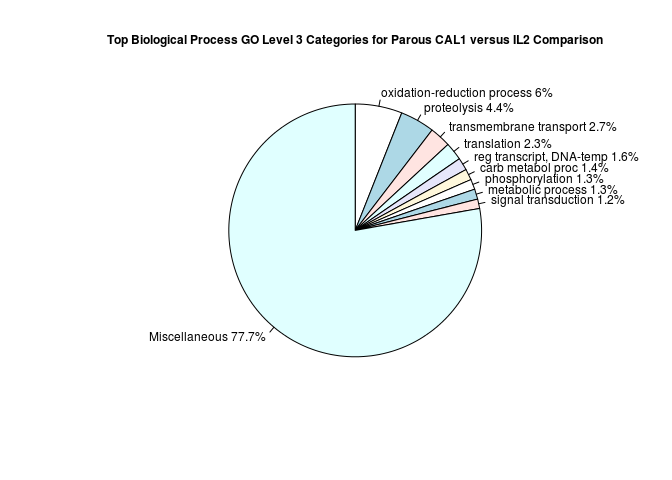
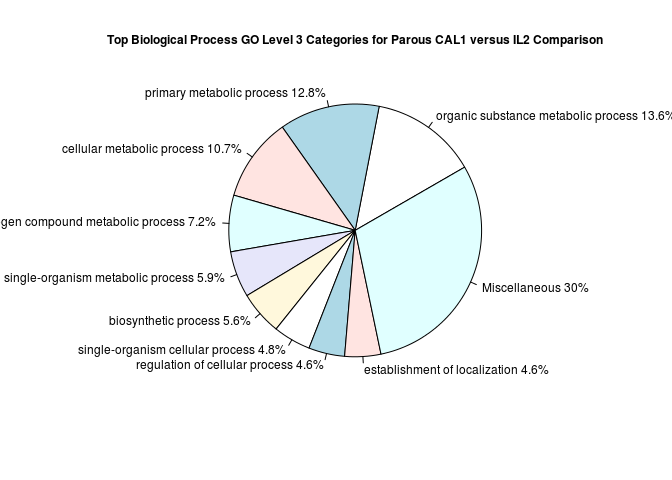
changed input datasets to actually reflect level3 GO categories, rather than direct GO counts

diff --git a/Culex_GO_Figs_09072018.md b/Culex_GO_Figs_09072018.md
@@ -9,76 +9,83 @@ Plots for Gene Ontology Classification.
 ##### Loading in data sets and libraries.
 
 ``` r
-library(rlist)
-
 setwd("~/Desktop/CulexRNAseq")
 
 #Getting the top 9 MF categories
-DGC_MF_grVpa <- read.table("./data/Culex_DGE_Blast2GO_output/GO_data_analyses/gravid_v_parous/DGC_MF_grVpa.txt", nrows = 9, sep = "\t", header = T)
-DGC_MF_paVma <- read.table("./data/Culex_DGE_Blast2GO_output/GO_data_analyses/parous_v_males/DGC_MF_paVma.txt", nrows = 9, sep = "\t", header = T)
-DGC_MF_paVpip <- read.table("./data/Culex_DGE_Blast2GO_output/GO_data_analyses/parous_v_pipiens/DGC_MF_paVpip.txt", nrows = 9, sep = "\t", header = T)
-DGC_MF_grVpip <- read.table("./data/Culex_DGE_Blast2GO_output/GO_data_analyses/gravid_v_pipiens/DGC_MF_grVpip.txt", nrows = 9, sep = "\t", header = T)
+DGC_MF_grVpa <- read.table("./data/GO_level3Dist_data_analysis_09102018/gravidVparous/gravidVparous_GODist_level3_first3colsMF.txt", sep = "\t", header = T)
+DGC_MF_paVma <- read.table("./data/GO_level3Dist_data_analysis_09102018/parousVmales/parousVmales_GODist_level3_first3cols_MF.txt", sep = "\t", header = T)
+DGC_MF_paVpip <- read.table("./data/GO_level3Dist_data_analysis_09102018/parousVpipiens/parousVpipiens_GODist_level3_first3cols_MF.txt", sep = "\t", header = T)
+DGC_MF_grVpip <- read.table("./data/GO_level3Dist_data_analysis_09102018/gravidVpipiens/gravidVpipiens_GODist_level3_first3cols_MF.txt", sep = "\t", header = T)
 
-data_MF <- list(DGC_MF_grVpa$X, DGC_MF_paVma$X, DGC_MF_paVpip$X, DGC_MF_grVpip$X)
-tot <- c(625,1744,3174,3327)
+top_nine_MF <- list(DGC_MF_grVpa[c(1:9),3], DGC_MF_paVma[c(1:9),3], DGC_MF_paVpip[c(1:9),3], DGC_MF_grVpip[c(1:9),3])
+
+tot_data_MF <- list(DGC_MF_grVpa[c(1:nrow(DGC_MF_grVpa)),3], DGC_MF_paVma[c(1:nrow(DGC_MF_paVma)),3], DGC_MF_paVpip[c(1:nrow(DGC_MF_paVpip)),3], DGC_MF_grVpip[c(1:nrow(DGC_MF_grVpip)),3])
+
 
 #Getting the top 9 BP categories
-DGC_BP_grVpa <- read.table("./data/Culex_DGE_Blast2GO_output/GO_data_analyses/gravid_v_parous/DGC_BP_grVpa.txt", nrows = 9, sep = "\t", header = T)
-DGC_BP_paVma <- read.table("./data/Culex_DGE_Blast2GO_output/GO_data_analyses/parous_v_males/DGC_BP_paVma.txt", nrows = 9, sep = "\t", header = T)
-DGC_BP_paVpip <- read.table("./data/Culex_DGE_Blast2GO_output/GO_data_analyses/parous_v_pipiens/DGC_BP_paVpip.txt", nrows = 9, sep = "\t", header = T)
-DGC_BP_grVpip <- read.table("./data/Culex_DGE_Blast2GO_output/GO_data_analyses/gravid_v_pipiens/DGC_BP_grVpip.txt", nrows = 9, sep = "\t", header = T)
+DGC_BP_grVpa <- read.table("./data/GO_level3Dist_data_analysis_09102018/gravidVparous/gravidVparous_GODist_level3_first3cols_BP.txt", sep = "\t", header = T)
+DGC_BP_paVma <- read.table("./data/GO_level3Dist_data_analysis_09102018/parousVmales/parousVmales_GODist_level3_first3cols_BP.txt", sep = "\t", header = T)
+DGC_BP_paVpip <- read.table("./data/GO_level3Dist_data_analysis_09102018/parousVpipiens/parousVpipiens_GODist_level3_first3cols_BP.txt", sep = "\t", header = T)
+DGC_BP_grVpip <- read.table("./data/GO_level3Dist_data_analysis_09102018/gravidVpipiens/gravidVpipiens_GODist_level3_first3cols_BP.txt", sep = "\t", header = T)
 
-data_BP <- list(DGC_BP_grVpa$X, DGC_BP_paVma$X, DGC_BP_paVpip$X, DGC_BP_grVpip$X)
+top_nine_BP <- list(DGC_BP_grVpa[c(1:9),3], DGC_BP_paVma[c(1:9),3], DGC_BP_paVpip[c(1:9),3], DGC_BP_grVpip[c(1:9),3])
+
+tot_data_BP <- list(DGC_BP_grVpa[c(1:nrow(DGC_BP_grVpa)),3], DGC_BP_paVma[c(1:nrow(DGC_BP_paVma)),3], DGC_BP_paVpip[c(1:nrow(DGC_BP_paVpip)),3], DGC_BP_grVpip[c(1:nrow(DGC_BP_grVpip)),3])
 
 
 #Getting the top 9 CC categories
-DGC_CC_grVpa <- read.table("./data/Culex_DGE_Blast2GO_output/GO_data_analyses/gravid_v_parous/DGC_CC_grVpa.txt", nrows = 9, sep = "\t", header = T)
-DGC_CC_paVma <- read.table("./data/Culex_DGE_Blast2GO_output/GO_data_analyses/parous_v_males/DGC_CC_paVma.txt", nrows = 9, sep = "\t", header = T)
-DGC_CC_paVpip <- read.table("./data/Culex_DGE_Blast2GO_output/GO_data_analyses/parous_v_pipiens/DGC_CC_paVpip.txt", nrows = 9, sep = "\t", header = T)
-DGC_CC_grVpip <- read.table("./data/Culex_DGE_Blast2GO_output/GO_data_analyses/gravid_v_pipiens/DGC_CC_grVpip.txt", nrows = 9, sep = "\t", header = T)
+DGC_CC_grVpa <- read.table("./data/GO_level3Dist_data_analysis_09102018/gravidVparous/gravidVparous_GODist_level3_first3cols_CC.txt", sep = "\t", header = T)
+DGC_CC_paVma <- read.table("./data/GO_level3Dist_data_analysis_09102018/parousVmales/parousVmales_GODist_level3_first3cols_CC.txt", sep = "\t", header = T)
+DGC_CC_paVpip <- read.table("./data/GO_level3Dist_data_analysis_09102018/parousVpipiens/parousVpipiens_GODist_level3_first3cols_CC.txt", sep = "\t", header = T)
+DGC_CC_grVpip <- read.table("./data/GO_level3Dist_data_analysis_09102018/gravidVpipiens/gravidVpipiens_GODist_level3_first3cols_CC.txt", sep = "\t", header = T)
 
-data_CC <- list(DGC_CC_grVpa$X, DGC_CC_paVma$X, DGC_CC_paVpip$X, DGC_CC_grVpip$X)
+top_nine_CC <- list(DGC_CC_grVpa[c(1:9),3], DGC_CC_paVma[c(1:9),3], DGC_CC_paVpip[c(1:9),3], DGC_CC_grVpip[c(1:9),3])
+
+tot_data_CC <- list(DGC_CC_grVpa[c(1:nrow(DGC_CC_grVpa)),3], DGC_CC_paVma[c(1:nrow(DGC_CC_paVma)),3], DGC_CC_paVpip[c(1:nrow(DGC_CC_paVpip)),3], DGC_CC_grVpip[c(1:nrow(DGC_CC_grVpip)),3])
 ```
 
 ##### Getting MF GO percentages by comparison
 
 ``` r
-inv_misc_cat_MF <- lapply(data_MF, sum)
-misc_cat_MF <- tot - (unlist(inv_misc_cat_MF))
+tot_MF <- lapply(tot_data_MF, sum)
+inv_misc_cat_MF <- lapply(top_nine_MF, sum)
+misc_cat_MF <- (unlist(tot_MF)) - (unlist(inv_misc_cat_MF))
 
-data2_MF <- as.data.frame(data_MF, col.names = c("DGC_MF_grVpa", "DGC_MF_paVma", "DGC_MF_paVpip", "DGC_MF_grVpip"))
+data2_MF <- as.data.frame(top_nine_MF, col.names = c("DGC_MF_grVpa", "DGC_MF_paVma", "DGC_MF_paVpip", "DGC_MF_grVpip"))
 
 Updata_MF <- rbind(data2_MF, misc_cat_MF)
 
-Percentages_MF <- data.frame((t(apply(Updata_MF, 1, "/", tot))*100))
+Percentages_MF <- data.frame((t(apply(Updata_MF, 1, "/", unlist(tot_MF)))*100))
 Rounded_Percentages_MF <- round(Percentages_MF, 1)
 ```
 
 ##### Getting BP GO percentages by comparison
 
 ``` r
-inv_misc_cat_BP <- lapply(data_BP, sum)
-misc_cat_BP <- tot - (unlist(inv_misc_cat_BP))
+tot_BP <- lapply(tot_data_BP, sum)
+inv_misc_cat_BP <- lapply(top_nine_BP, sum)
+misc_cat_BP <- (unlist(tot_BP)) - (unlist(inv_misc_cat_BP))
 
-data2_BP <- as.data.frame(data_BP, col.names = c("DGC_BP_grVpa", "DGC_BP_paVma", "DGC_BP_paVpip", "DGC_BP_grVpip"))
+data2_BP <- as.data.frame(top_nine_BP, col.names = c("DGC_BP_grVpa", "DGC_BP_paVma", "DGC_BP_paVpip", "DGC_BP_grVpip"))
 
 Updata_BP <- rbind(data2_BP, misc_cat_BP)
 
-Percentages_BP <- data.frame((t(apply(Updata_BP, 1, "/", tot))*100))
+Percentages_BP <- data.frame((t(apply(Updata_BP, 1, "/", unlist(tot_BP)))*100))
 Rounded_Percentages_BP <- round(Percentages_BP, 1)
 ```
 
 ##### Getting CC GO percentages by comparison
 
 ``` r
-inv_misc_cat_CC <- lapply(data_CC, sum)
-misc_cat_CC <- tot - (unlist(inv_misc_cat_CC))
+tot_CC <- lapply(tot_data_CC, sum)
+inv_misc_cat_CC <- lapply(top_nine_CC, sum)
+misc_cat_CC <- (unlist(tot_CC)) - (unlist(inv_misc_cat_CC))
 
-data2_CC <- as.data.frame(data_CC, col.names = c("DGC_CC_grVpa", "DGC_CC_paVma", "DGC_CC_paVpip", "DGC_CC_grVpip"))
+data2_CC <- as.data.frame(top_nine_CC, col.names = c("DGC_CC_grVpa", "DGC_CC_paVma", "DGC_CC_paVpip", "DGC_CC_grVpip"))
 
 Updata_CC <- rbind(data2_CC, misc_cat_CC)
 
-Percentages_CC <- data.frame((t(apply(Updata_CC, 1, "/", tot))*100))
+Percentages_CC <- data.frame((t(apply(Updata_CC, 1, "/", unlist(tot_CC)))*100))
 Rounded_Percentages_CC <- round(Percentages_CC, 1)
 ```
 
@@ -91,43 +98,43 @@ Rounded_Percentages_CC <- round(Percentages_CC, 1)
 ###### "serine-type endopeptidase activity", "ser-type endopep act"
 
 ``` r
-lbls <- c(as.character(DGC_MF_grVpa$GO), "Miscellaneous")
+lbls <- c(as.character(DGC_MF_grVpa[c(1:9),2]), "Miscellaneous")
 lbls <- gsub("structural constituent of ribosome", "struc const ribosome", lbls)
 lbls <- paste(lbls, Rounded_Percentages_MF$DGC_MF_grVpa) # add percents to labels
 lbls <- paste(lbls,"%",sep="") # ad % to labels 
-grVpa_pie_MF <- pie(Rounded_Percentages_MF$DGC_MF_grVpa, labels =lbls, main = "Top Molecular Function GO Level 3 Categories for Gravid CAL1 versus Parous CAL1 Comparison", radius = 0.9, col = rainbow(length(lbls)), cex = 0.75, cex.main = 0.75, tck=.2, clockwise = T)
+grVpa_pie_MF <- pie(Rounded_Percentages_MF$DGC_MF_grVpa, labels =lbls, main = "Top Molecular Function GO Level 3 Categories for Gravid CAL1 versus Parous CAL1 Comparison", radius = 0.9, col = rainbow(length(lbls)), cex = 0.75, cex.main = 0.75, tck=.2, init.angle = 30)
 ```
 
 ![](Culex_GO_Figs_09072018_files/figure-markdown_github/MF%20GO%20Figs-1.png)
 
 ``` r
-lbls <- c(as.character(DGC_MF_paVma$GO), "Miscellaneous")
+lbls <- c(as.character(DGC_MF_paVma[c(1:9),2]), "Miscellaneous")
 lbls <- gsub("structural constituent of ribosome", "struc const ribosome", lbls)
 lbls <- paste(lbls, Rounded_Percentages_MF$DGC_MF_paVma) 
 lbls <- paste(lbls,"%",sep="") 
-paVma_pie_MF <- pie(Rounded_Percentages_MF$DGC_MF_paVma, labels =lbls, main = "Top Molecular Function GO Level 3 Categories for Parous CAL1 versus Male CAL1 Comparison", radius = 0.9, col = rainbow(length(lbls)), cex = 0.75, cex.main = 0.75, tck=.2, clockwise = T)
+paVma_pie_MF <- pie(Rounded_Percentages_MF$DGC_MF_paVma, labels =lbls, main = "Top Molecular Function GO Level 3 Categories for Parous CAL1 versus Male CAL1 Comparison", radius = 0.9, col = rainbow(length(lbls)), cex = 0.75, cex.main = 0.75, tck=.2, init.angle = 30)
 ```
 
 ![](Culex_GO_Figs_09072018_files/figure-markdown_github/MF%20GO%20Figs-2.png)
 
 ``` r
-lbls <- c(as.character(DGC_MF_paVpip$GO), "Miscellaneous")
+lbls <- c(as.character(DGC_MF_paVpip[c(1:9),2]), "Miscellaneous")
 lbls <- gsub("structural constituent of ribosome", "struc const ribosome", lbls)
 lbls <- gsub("serine-type endopeptidase activity", "ser-type endopep act", lbls)
 lbls <- paste(lbls, Rounded_Percentages_MF$DGC_MF_paVpip) 
 lbls <- paste(lbls,"%",sep="") 
-paVpip_pie_MF <- pie(Rounded_Percentages_MF$DGC_MF_paVpip, labels =lbls, main = "Top Molecular Function GO Level 3 Categories for Parous CAL1 versus IL2 Comparison", radius = 0.9, col = rainbow(length(lbls)), cex = 0.75, cex.main = 0.75, tck=.2, clockwise = T)
+paVpip_pie_MF <- pie(Rounded_Percentages_MF$DGC_MF_paVpip, labels =lbls, main = "Top Molecular Function GO Level 3 Categories for Parous CAL1 versus IL2 Comparison", radius = 0.9, col = rainbow(length(lbls)), cex = 0.75, cex.main = 0.75, tck=.2, init.angle = 30)
 ```
 
 ![](Culex_GO_Figs_09072018_files/figure-markdown_github/MF%20GO%20Figs-3.png)
 
 ``` r
-lbls <- c(as.character(DGC_MF_grVpip$GO), "Miscellaneous")
+lbls <- c(as.character(DGC_MF_grVpip[c(1:9),2]), "Miscellaneous")
 lbls <- gsub("structural constituent of ribosome", "struc const ribosome", lbls)
 lbls <- gsub("serine-type endopeptidase activity", "ser-type endopep act", lbls)
 lbls <- paste(lbls, Rounded_Percentages_MF$DGC_MF_grVpip) 
 lbls <- paste(lbls,"%",sep="") 
-grVpip_pie_MF <- pie(Rounded_Percentages_MF$DGC_MF_grVpip, labels =lbls, main = "Top Molecular Function GO Level 3 Categories for Gravid CAL1 versus IL2 Comparison", radius = 0.9, col = rainbow(length(lbls)), cex = 0.75, cex.main = 0.75, tck=.2, clockwise = T)
+grVpip_pie_MF <- pie(Rounded_Percentages_MF$DGC_MF_grVpip, labels =lbls, main = "Top Molecular Function GO Level 3 Categories for Gravid CAL1 versus IL2 Comparison", radius = 0.9, col = rainbow(length(lbls)), cex = 0.75, cex.main = 0.75, tck=.2, init.angle = 30)
 ```
 
 ![](Culex_GO_Figs_09072018_files/figure-markdown_github/MF%20GO%20Figs-4.png)
@@ -141,44 +148,44 @@ grVpip_pie_MF <- pie(Rounded_Percentages_MF$DGC_MF_grVpip, labels =lbls, main = 
 ###### "carbohydrate metabolic process" = "carb metabol proc"
 
 ``` r
-lbls <- c(as.character(DGC_BP_grVpa$GO), "Miscellaneous")
+lbls <- c(as.character(DGC_BP_grVpa[c(1:9),2]), "Miscellaneous")
 lbls <- gsub("regulation of transcription, DNA-templated", "reg transcript, DNA-temp", lbls)
 lbls <- paste(lbls, Rounded_Percentages_BP$DGC_BP_grVpa) # add percents to labels
 lbls <- paste(lbls,"%",sep="") # ad % to labels 
-grVpa_pie_BP <- pie(Rounded_Percentages_BP$DGC_BP_grVpa, labels =lbls, main = "Top Biological Process GO Level 3 Categories for Gravid CAL1 versus Parous CAL1 Comparison", radius = 0.9, cex = 0.75, cex.main = 0.75, tck=.2, clockwise = T)
+grVpa_pie_BP <- pie(Rounded_Percentages_BP$DGC_BP_grVpa, labels =lbls, main = "Top Biological Process GO Level 3 Categories for Gravid CAL1 versus Parous CAL1 Comparison", radius = 0.9, cex = 0.75, cex.main = 0.75, tck=.2, init.angle = 30)
 ```
 
 ![](Culex_GO_Figs_09072018_files/figure-markdown_github/BP%20GO%20Figs-1.png)
 
 ``` r
-lbls <- c(as.character(DGC_BP_paVma$GO), "Miscellaneous")
+lbls <- c(as.character(DGC_BP_paVma[c(1:9),2]), "Miscellaneous")
 lbls <- gsub("regulation of transcription, DNA-templated", "reg transcript, DNA-temp", lbls)
 lbls <- gsub("carbohydrate metabolic process", "carb metabol proc", lbls)
 lbls <- paste(lbls, Rounded_Percentages_BP$DGC_BP_paVma) 
 lbls <- paste(lbls,"%",sep="") 
-paVma_pie_BP <- pie(Rounded_Percentages_BP$DGC_BP_paVma, labels =lbls, main = "Top Biological Process GO Level 3 Categories for Parous CAL1 versus Male CAL1 Comparison", radius = 0.9, cex = 0.75, cex.main = 0.75, tck=.2, clockwise = T)
+paVma_pie_BP <- pie(Rounded_Percentages_BP$DGC_BP_paVma, labels =lbls, main = "Top Biological Process GO Level 3 Categories for Parous CAL1 versus Male CAL1 Comparison", radius = 0.9, cex = 0.75, cex.main = 0.75, tck=.2, init.angle = 30)
 ```
 
 ![](Culex_GO_Figs_09072018_files/figure-markdown_github/BP%20GO%20Figs-2.png)
 
 ``` r
-lbls <- c(as.character(DGC_BP_paVpip$GO), "Miscellaneous")
+lbls <- c(as.character(DGC_BP_paVpip[c(1:9),2]), "Miscellaneous")
 lbls <- gsub("regulation of transcription, DNA-templated", "reg transcript, DNA-temp", lbls)
 lbls <- gsub("carbohydrate metabolic process", "carb metabol proc", lbls)
 lbls <- paste(lbls, Rounded_Percentages_BP$DGC_BP_paVpip) 
 lbls <- paste(lbls,"%",sep="") 
-paVpip_pie_BP <- pie(Rounded_Percentages_BP$DGC_BP_paVpip, labels =lbls, main = "Top Biological Process GO Level 3 Categories for Parous CAL1 versus IL2 Comparison", radius = 0.9,  cex = 0.75, cex.main = 0.75, tck=.2, clockwise = T)
+paVpip_pie_BP <- pie(Rounded_Percentages_BP$DGC_BP_paVpip, labels =lbls, main = "Top Biological Process GO Level 3 Categories for Parous CAL1 versus IL2 Comparison", radius = 0.9,  cex = 0.75, cex.main = 0.75, tck=.2, init.angle = 30)
 ```
 
 ![](Culex_GO_Figs_09072018_files/figure-markdown_github/BP%20GO%20Figs-3.png)
 
 ``` r
-lbls <- c(as.character(DGC_BP_grVpip$GO), "Miscellaneous")
+lbls <- c(as.character(DGC_BP_grVpip[c(1:9),2]), "Miscellaneous")
 lbls <- gsub("regulation of transcription, DNA-templated", "reg transcript, DNA-temp", lbls)
 lbls <- gsub("carbohydrate metabolic process", "carb metabol proc", lbls)
 lbls <- paste(lbls, Rounded_Percentages_BP$DGC_BP_grVpip) 
 lbls <- paste(lbls,"%",sep="") 
-grVpip_pie_BP <- pie(Rounded_Percentages_BP$DGC_BP_grVpip, labels =lbls, main = "Top Biological Process GO Level 3 Categories for Gravid CAL1 versus IL2 Comparison", radius = 0.9, cex = 0.75, cex.main = 0.75, tck=.2, clockwise = T)
+grVpip_pie_BP <- pie(Rounded_Percentages_BP$DGC_BP_grVpip, labels =lbls, main = "Top Biological Process GO Level 3 Categories for Gravid CAL1 versus IL2 Comparison", radius = 0.9, cex = 0.75, cex.main = 0.75, tck=.2, init.angle = 30)
 ```
 
 ![](Culex_GO_Figs_09072018_files/figure-markdown_github/BP%20GO%20Figs-4.png)
@@ -192,46 +199,46 @@ grVpip_pie_BP <- pie(Rounded_Percentages_BP$DGC_BP_grVpip, labels =lbls, main = 
 ###### "carbohydrate metabolic process" = "carb metabol proc"
 
 ``` r
-col_schema <- c("blue3", "blue2", "blue", "deepskyblue", "lightblue", "orange", "yellow3", "yellow2", "yellow", "lightyellow")
+col_schema <- c("lavender", "purple", "blue", "deepskyblue", "lightblue", "orange", "brown", "yellow3", "yellow", "lightyellow")
 
-lbls <- c(as.character(DGC_CC_grVpa$GO), "Miscellaneous")
+lbls <- c(as.character(DGC_CC_grVpa[c(1:9),2]), "Miscellaneous")
 lbls <- gsub("regulation of transcription, DNA-templated", "reg transcript, DNA-temp", lbls)
 lbls <- paste(lbls, Rounded_Percentages_CC$DGC_CC_grVpa) # add percents to labels
 lbls <- paste(lbls,"%",sep="") # ad % to labels 
-grVpa_pie_CC <- pie(Rounded_Percentages_CC$DGC_CC_grVpa, labels =lbls, main = "Top Cellular Component GO Level 3 Categories for Gravid CAL1 versus Parous CAL1 Comparison", radius = 1.05, cex = 0.6, cex.main = 0.75, tck=.2, init.angle = 30, col= col_schema)
+grVpa_pie_CC <- pie(Rounded_Percentages_CC$DGC_CC_grVpa, labels =lbls, main = "Top Cellular Component GO Level 3 Categories for Gravid CAL1 versus Parous CAL1 Comparison", radius = 0.9, cex = 0.75, cex.main = 0.75, tck=.2, init.angle = 20, col= col_schema)
 ```
 
 ![](Culex_GO_Figs_09072018_files/figure-markdown_github/CC%20GO%20Figs-1.png)
 
 ``` r
-lbls <- c(as.character(DGC_CC_paVma$GO), "Miscellaneous")
+lbls <- c(as.character(DGC_CC_paVma[c(1:9),2]), "Miscellaneous")
 lbls <- gsub("regulation of transcription, DNA-templated", "reg transcript, DNA-temp", lbls)
 lbls <- gsub("carbohydrate metabolic process", "carb metabol proc", lbls)
 lbls <- paste(lbls, Rounded_Percentages_CC$DGC_CC_paVma) 
 lbls <- paste(lbls,"%",sep="") 
-paVma_pie_CC <- pie(Rounded_Percentages_CC$DGC_CC_paVma, labels =lbls, main = "Top Cellular Component GO Level 3 Categories for Parous CAL1 versus Male CAL1 Comparison", radius = 1.05, cex = 0.6, cex.main = 0.75, tck=.2, init.angle = 30, col= col_schema)
+paVma_pie_CC <- pie(Rounded_Percentages_CC$DGC_CC_paVma, labels =lbls, main = "Top Cellular Component GO Level 3 Categories for Parous CAL1 versus Male CAL1 Comparison", radius = 0.9, cex = 0.75, cex.main = 0.75, tck=.2, init.angle = 20, col= col_schema)
 ```
 
 ![](Culex_GO_Figs_09072018_files/figure-markdown_github/CC%20GO%20Figs-2.png)
 
 ``` r
-lbls <- c(as.character(DGC_CC_paVpip$GO), "Miscellaneous")
+lbls <- c(as.character(DGC_CC_paVpip[c(1:9),2]), "Miscellaneous")
 lbls <- gsub("regulation of transcription, DNA-templated", "reg transcript, DNA-temp", lbls)
 lbls <- gsub("carbohydrate metabolic process", "carb metabol proc", lbls)
 lbls <- paste(lbls, Rounded_Percentages_CC$DGC_CC_paVpip) 
 lbls <- paste(lbls,"%",sep="") 
-paVpip_pie_CC <- pie(Rounded_Percentages_CC$DGC_CC_paVpip, labels =lbls, main = "Top Cellular Component GO Level 3 Categories for Parous CAL1 versus IL2 Comparison", radius = 1.05,  cex = 0.6, cex.main = 0.75, tck=.2, init.angle = 30, col= col_schema)
+paVpip_pie_CC <- pie(Rounded_Percentages_CC$DGC_CC_paVpip, labels =lbls, main = "Top Cellular Component GO Level 3 Categories for Parous CAL1 versus IL2 Comparison", radius = 0.9,  cex = 0.75, cex.main = 0.75, tck=.2, init.angle = 30, col= col_schema)
 ```
 
 ![](Culex_GO_Figs_09072018_files/figure-markdown_github/CC%20GO%20Figs-3.png)
 
 ``` r
-lbls <- c(as.character(DGC_CC_grVpip$GO), "Miscellaneous")
+lbls <- c(as.character(DGC_CC_grVpip[c(1:9),2]), "Miscellaneous")
 lbls <- gsub("regulation of transcription, DNA-templated", "reg transcript, DNA-temp", lbls)
 lbls <- gsub("carbohydrate metabolic process", "carb metabol proc", lbls)
 lbls <- paste(lbls, Rounded_Percentages_CC$DGC_CC_grVpip) 
 lbls <- paste(lbls,"%",sep="") 
-grVpip_pie_CC <- pie(Rounded_Percentages_CC$DGC_CC_grVpip, labels =lbls, main = "Top Cellular Component GO Level 3 Categories for Gravid CAL1 versus IL2 Comparison", radius = 1.05, cex = 0.6, cex.main = 0.75, tck=.2, init.angle = 30, col= col_schema)
+grVpip_pie_CC <- pie(Rounded_Percentages_CC$DGC_CC_grVpip, labels =lbls, main = "Top Cellular Component GO Level 3 Categories for Gravid CAL1 versus IL2 Comparison", radius = 0.9, cex = 0.75, cex.main = 0.75, tck=.2, init.angle = 30, col= col_schema)
 ```
 
 ![](Culex_GO_Figs_09072018_files/figure-markdown_github/CC%20GO%20Figs-4.png)
